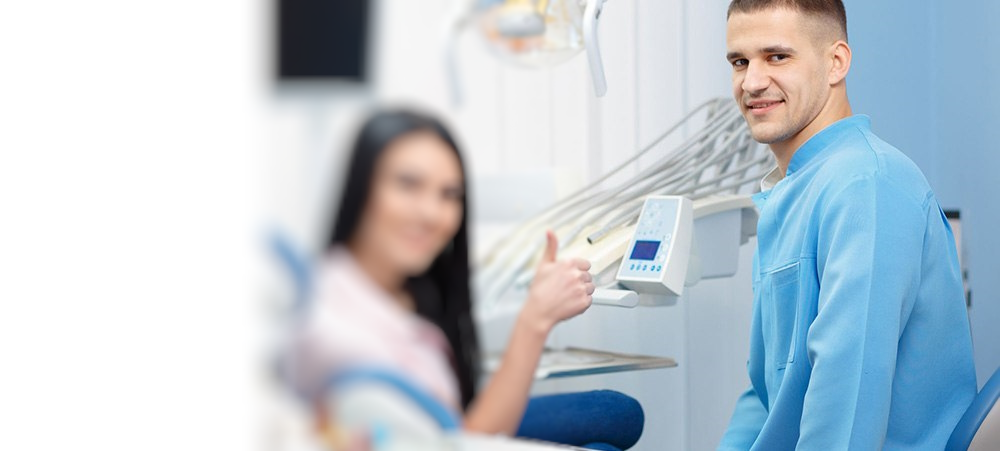
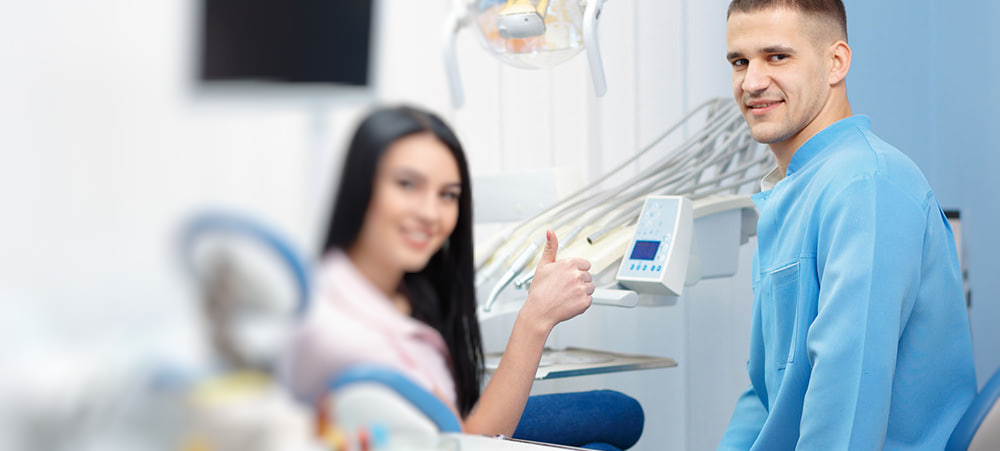
update header, slider

diff --git a/Dentist/main/templates/main/main.html b/Dentist/main/templates/main/main.html
@@ -19,38 +19,32 @@ main
 {% block content %}
 
 <div id="carouselExampleCaptions" class="carousel slide" id="slider">
-  <div class="carousel-indicators">
-    <button type="button" data-bs-target="#carouselExampleCaptions" data-bs-slide-to="0" class="active" aria-current="true" aria-label="Slide 1"></button>
-    <button type="button" data-bs-target="#carouselExampleCaptions" data-bs-slide-to="1" aria-label="Slide 2"></button>
-    <button type="button" data-bs-target="#carouselExampleCaptions" data-bs-slide-to="2" aria-label="Slide 3"></button>
-    <button type="button" data-bs-target="#carouselExampleCaptions" data-bs-slide-to="3" aria-label="Slide 4"></button>
-  </div>
   <div class="carousel-inner">
     <div class="carousel-item active">
-      <img src="{% static 'main/img/1.jpeg' %}" alt="...">
+      <img src="{% static 'main/img/1.jpg' %}" alt="...">
       <div class="carousel-caption d-none d-md-block">
-        <p>Бажаєте записатись на консультацію? <br>Опишіть свою проблему і ми <br> зателефонуємо вам!</p>
+        <p>Бажаєте записатись на консультацію? <br>Опишіть свою проблему і ми зателефонуємо вам!</p>
         <button type="button" class="btn btn-primary" data-bs-toggle="modal" data-bs-target="#myModal" id="consultation">Запис на консультацію</button>
       </div>
     </div>
     <div class="carousel-item">
-      <img src="{% static 'main/img/2.jpeg' %}" alt="...">
+      <img src="{% static 'main/img/2.jpg' %}" alt="...">
       <div class="carousel-caption d-none d-md-block">
-        <p>Бажаєте записатись на консультацію? <br>Опишіть свою проблему і ми <br> зателефонуємо вам!</p>
+        <p>Бажаєте записатись на консультацію? <br>Опишіть свою проблему і ми зателефонуємо вам!</p>
         <button type="button" class="btn btn-primary" data-bs-toggle="modal" data-bs-target="#myModal" id="consultation">Запис на консультацію</button>
       </div>
     </div>
     <div class="carousel-item">
-      <img src="{% static 'main/img/3.jpeg' %}" alt="...">
+      <img src="{% static 'main/img/3.jpg' %}" alt="...">
       <div class="carousel-caption d-none d-md-block">
-        <p>Бажаєте записатись на консультацію? <br>Опишіть свою проблему і ми <br> зателефонуємо вам!</p>
+        <p>Бажаєте записатись на консультацію? <br>Опишіть свою проблему і ми зателефонуємо вам!</p>
         <button type="button" class="btn btn-primary" data-bs-toggle="modal" data-bs-target="#myModal" id="consultation">Запис на консультацію</button>
       </div>
     </div>
     <div class="carousel-item">
       <img src="{% static 'main/img/4.jpg' %}" alt="...">
       <div class="carousel-caption d-none d-md-block">
-        <p>Бажаєте записатись на консультацію? <br>Опишіть свою проблему і ми <br> зателефонуємо вам!</p>
+        <p>Бажаєте записатись на консультацію? <br>Опишіть свою проблему і ми зателефонуємо вам!</p>
         <button type="button" class="btn btn-primary" data-bs-toggle="modal" data-bs-target="#myModal" id="consultation">Запис на консультацію</button>
       </div>
     </div>
@@ -114,36 +108,5 @@ main
   </div>
 
 <a href="/services"><button id="all">Всі послуги</button></a>
-
-<h2>Наші лікарі</h2>
-
-<div class="container-docs">
-    <div id="doc1">
-        <img src="{% static 'main/img/doc1.jpg' %}" alt="">
-        <p>Борисенко Олена Григоріївна</p>
-        <ul>
-          <li>Головний лікар, засновник клініки</li>
-          <li>Досвід роботи:33 роки</li>
-        </ul>
-    </div>
-
-    <div id="doc2">
-      <img src="{% static 'main/img/doc2.jpg' %}" alt="">
-      <p>Сидоренко Ольга Сергіївна</p>
-      <ul>
-        <li>Стоматолог-терапевт, лікар-пародонтолог, імплантолог</li>
-        <li>Досвід роботи:15 років</li>
-      </ul>
-    </div>
-
-    <div id="doc3">
-      <img src="{% static 'main/img/doc3.jpg' %}" alt="">
-        <p>Борисенко Вікторія Сергіївна</p>
-        <ul>
-          <li>Стоматолог-терапевт, ортодонт, імплантолог</li>
-          <li>Досвід роботи:13 років</li>
-        </ul>
-    </div>
-</div>
 
 {% endblock %}

diff --git a/Dentist/login/templates/base.html b/Dentist/login/templates/base.html
@@ -10,7 +10,7 @@
     <link href="https://cdn.jsdelivr.net/npm/bootstrap@5.3.3/dist/css/bootstrap.min.css" rel="stylesheet" integrity="sha384-QWTKZyjpPEjISv5WaRU9OFeRpok6YctnYmDr5pNlyT2bRjXh0JMhjY6hW+ALEwIH" crossorigin="anonymous">
     <link rel="preconnect" href="https://fonts.googleapis.com">
     <link rel="preconnect" href="https://fonts.gstatic.com" crossorigin>
-    <link href="https://fonts.googleapis.com/css2?family=Jura:wght@300..700&family=Ledger&display=swap" rel="stylesheet">
+    <link href="https://fonts.googleapis.com/css2?family=Montserrat:ital,wght@0,100..900;1,100..900&family=Nunito:ital,wght@0,200..1000;1,200..1000&display=swap" rel="stylesheet">
     {% block links %}
     {% endblock %}
 </head>
@@ -45,7 +45,7 @@
         </div>
         
         <nav class="d-none d-lg-flex">
-            <a href="/" id="aLogo"><img src="{% static 'login/img/logo.png' %}" alt="" id="logo" ></a>
+            <!-- <a href="/" id="aLogo"><img src="{% static 'login/img/logo.png' %}" alt="" id="logo" ></a> -->
             <a class = 'low_intelect' href="/">Головна</a>
             <a class = 'low_intelect' href="/services">Послуги</a>
             <a class = 'low_intelect' href="/price">Ціни</a>

diff --git a/Dentist/main/static/main/css/main.css b/Dentist/main/static/main/css/main.css
@@ -137,17 +137,36 @@ div{
     background-color: #ffffff;
 }
 
-.carousel-item img {
+.carousel-item {
+    position: relative;
     width: 100vw;
-    height: 800px;
+    height: 900px;
+    overflow: hidden;
+}
+
+.carousel-item img {
+    width: 100%;
+    height: 100%;
+    object-fit: cover;
+}
+
+.carousel-item::before {
+    content: "";
+    position: absolute;
+    top: 0;
+    left: 0;
+    width: 100%;
+    height: 100%;
+    background: linear-gradient(to right, rgba(255, 255, 255, 1), rgba(255, 255, 255, 0) 65%);
+    pointer-events: none; 
 }
 
 .carousel-item p {
-    font-size: 32px;
-    color: black;
-    font-family: "Ledger", serif;
-    font-weight: 600;
-    font-style: normal;
+    font-size: 26px;
+    color: #333333;
+    font-family: "Montserrat", Sans-serif;
+    font-weight: 400;
+    line-height: 46px;
     white-space: nowrap;
     display: flex;
     align-items: center;
@@ -160,6 +179,14 @@ div{
     height: 54px;
     line-height: 50px;
     border: 3px solid rgb(17, 72, 221);
+}
+
+.carousel-control-prev {
+    left: -4%;
+}
+
+.carousel-control-next {
+    right: -4%;
 }
 
 .carousel-caption {

diff --git a/Dentist/login/static/login/css/base.css b/Dentist/login/static/login/css/base.css
@@ -16,10 +16,6 @@ p#authorized {
     color: darkblue;
 }
 
-#auth {
-    font-size: 17px;
-}
-
 #authorized {
     font-size: large;
     display: flex;
@@ -92,13 +88,13 @@ header nav {
 }
 
 header nav a, header nav p {
-    color: black;
     text-decoration: none;
-    margin: 40px;
-    font-family: "Jura", sans-serif;
+    margin: 30px;
+    font-family: "Nunito", sans-serif;
     font-optical-sizing: auto;
-    font-weight: 700;
-    font-size: 22px;
+    color: #7a7a7a;
+    font-style: normal;
+    font-size: 20px;
     margin-top: 40px;
 }
 

diff --git a/Dentist/Dentist/settings.py b/Dentist/Dentist/settings.py
@@ -24,9 +24,9 @@ BASE_DIR = Path(__file__).resolve().parent.parent
 SECRET_KEY = 'django-insecure-2p7nb+*dy3hol*8ev!lkca=di-w=d8hf+^^03(576nnn2fc7h$'
 
 # SECURITY WARNING: don't run with debug turned on in production!
-DEBUG = False
+DEBUG = True
 
-ALLOWED_HOSTS = ["127.0.0.1", "localhost"]
+ALLOWED_HOSTS = []
 
 
 # Application definition
